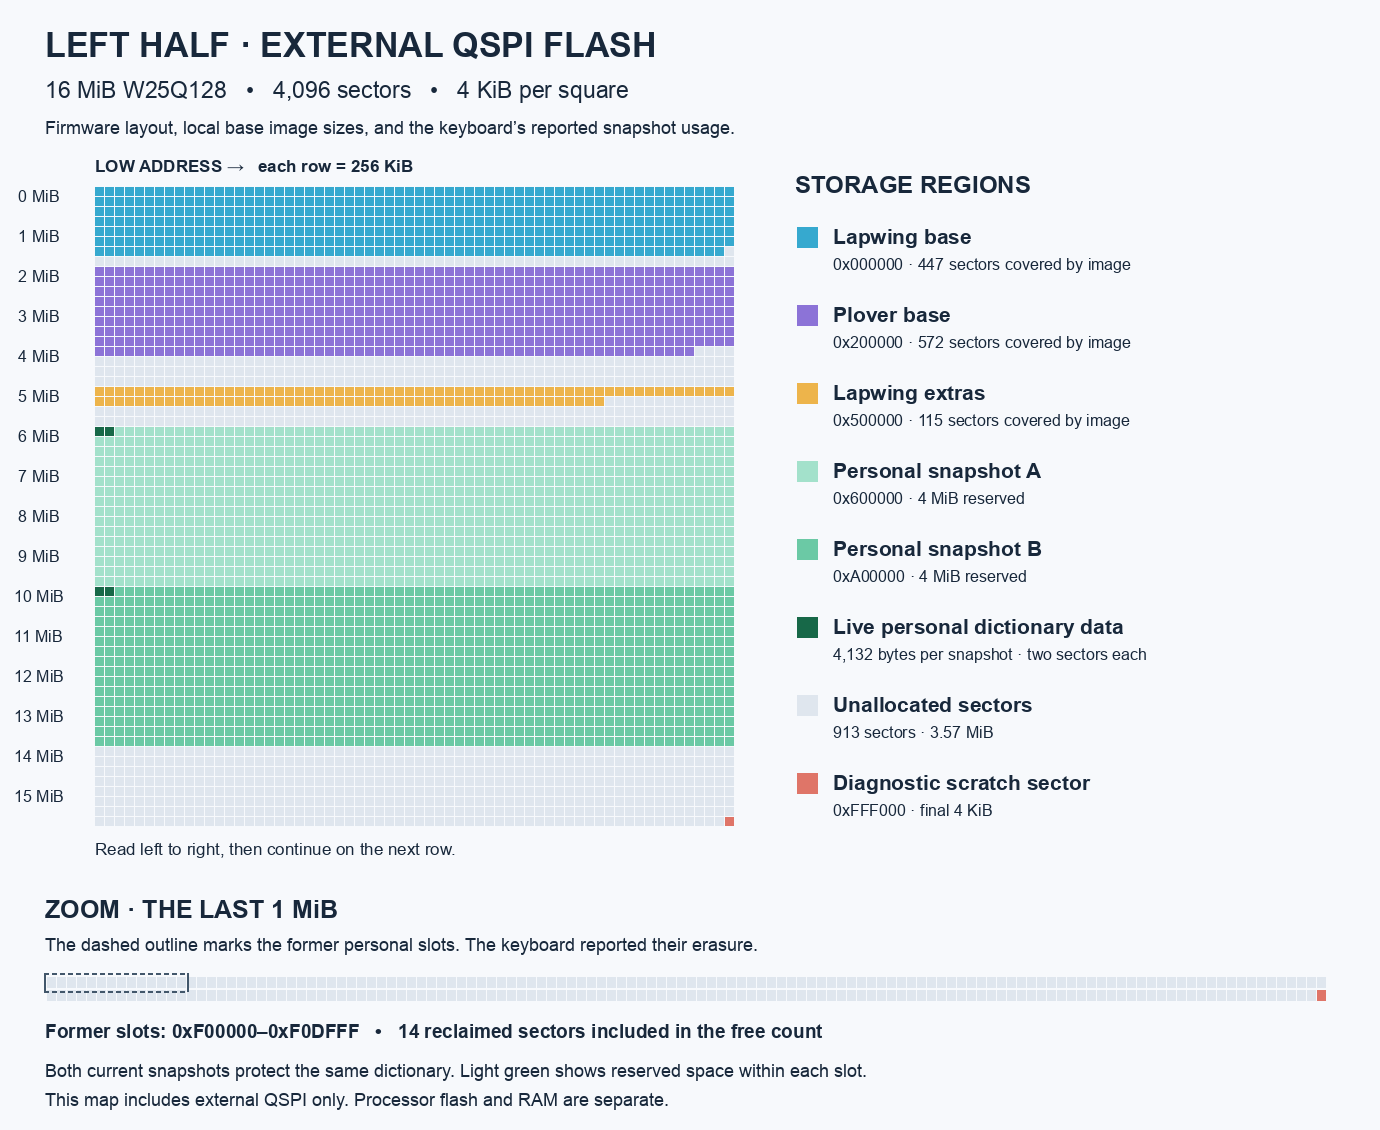
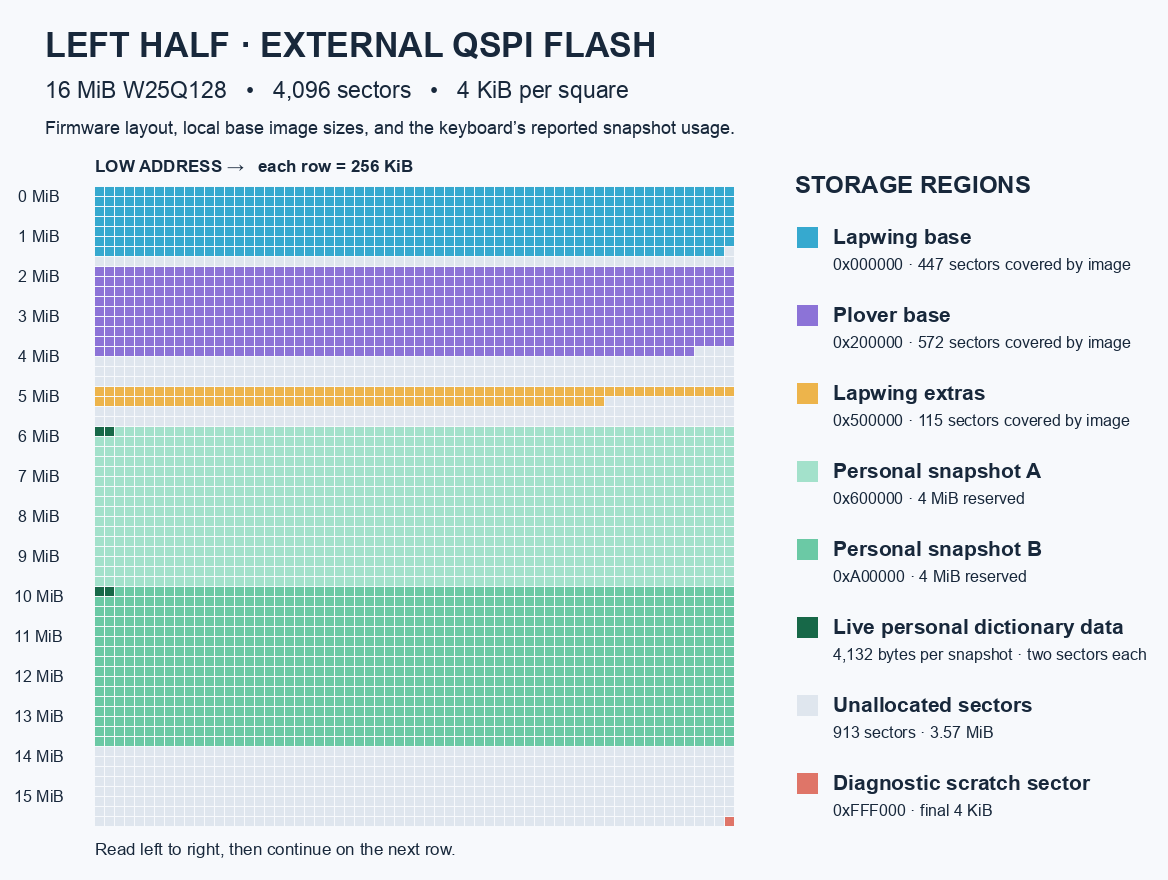
boop

diff --git a/tools/tests/test_practice_lookup.py b/tools/tests/test_practice_lookup.py
@@ -104,6 +104,21 @@ int main() {
   const unsigned lookups=active.calls;
   stroke.Set("S");assert(practice_correct(stroke));
   stroke.Set("K");assert(!practice_correct(stroke));
+  const auto check_vowel = [&](steno_squid_practice_drill drill, const char *vowel,
+                               const char *pair) {
+    practice.drill=drill;
+    const unsigned count=steno_squid_practice_prompt_count(drill);
+    for(prompt_id=0;prompt_id<count;++prompt_id)
+      if(std::string(steno_squid_practice_outline(drill,prompt_id))==vowel)
+        break;
+    assert(prompt_id<count);
+    stroke.Set(vowel);assert(practice_correct(stroke));
+    stroke.Set(pair);assert(!practice_correct(stroke));
+  };
+  check_vowel(STENO_SQUID_PRACTICE_LEFT,"A","AO");
+  check_vowel(STENO_SQUID_PRACTICE_LEFT,"O","AO");
+  check_vowel(STENO_SQUID_PRACTICE_RIGHT,"E","EU");
+  check_vowel(STENO_SQUID_PRACTICE_RIGHT,"U","EU");
   assert(active.calls==lookups); // Raw hand drills never touch dictionaries.
   puts("Practice lookup: alternate active outlines, Lapwing fallback, unavailable base and raw hand drills passed");
 }

diff --git a/src/steno_squid/split_status.h b/src/steno_squid/split_status.h
@@ -64,9 +64,11 @@ static inline bool steno_squid_practice_no_trouble(uint64_t progress) { return (
 static inline unsigned steno_squid_practice_seconds(uint64_t progress) { return (progress >> 46) & 31u; }
 static inline uint32_t steno_squid_practice_xp(uint64_t progress) { return progress & 0xfffffu; }
 
-static const char *const steno_squid_practice_left[] = {"S", "T", "K", "P", "W", "H", "R"};
+static const char *const steno_squid_practice_left[] = {
+    "S", "T", "K", "P", "W", "H", "R", "A", "O",
+};
 static const char *const steno_squid_practice_right[] = {
-    "-F", "-R", "-P", "-B", "-L", "-G", "-T", "-S", "-D", "-Z",
+    "-F", "-R", "-P", "-B", "-L", "-G", "-T", "-S", "-D", "-Z", "E", "U",
 };
 
 static const char *const steno_squid_practice_columns[] = {

diff --git a/config/steno-squid-split/README.md b/config/steno-squid-split/README.md
@@ -153,8 +153,8 @@ Multi- draws ten distinct words from 20 verified two-stroke Lapwing outlines. Bo
 
 COLUMNS tests simultaneous TK/PW/HR/FR/PB/LG/TS/DZ/AO/EU pairs, independently of dictionaries, using hand-drill XP. Prompts hide the handedness hyphens; scoring still checks the actual keys. SPEED gives ten adaptive single-stroke words in 30 seconds, advances immediately on correct answers, and updates word history. The clock starts on the start-thumb release. Expiry keeps earned XP, skips the completion bonus, and shows Time up; only a new vowel press dismisses it. Both halves must be updated for the new display flags. Existing progress and dictionary images stay valid.
 
-**LEFT** and **RIGHT** use the corresponding consonant banks from
-[StenoJig's keyboard drills](https://joshuagrams.github.io/steno-jig/learn-keyboard.html).
+**LEFT** and **RIGHT** test their respective consonant banks and vowel thumbs.
+LEFT includes A and O. RIGHT includes E and U.
 Tap the displayed steno key and release it. A leading hyphen indicates a
 right-hand key, such as `-F`. The lower left key is `S`. The key above it is the Lapwing `#` key.
 The hand drills check raw strokes and work with all dictionaries disabled.
